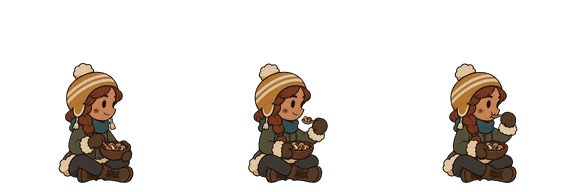
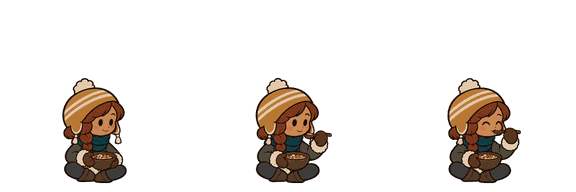
Bring art batch 3 into the game
The two-cell plank door, ladders tiled from top, middle and bottom pieces,
the Shade's idle and dissolve strips, the repainted coal, food, survivors
and hearth glyphs plus the control icons, and every pose at the turnaround's
scale (so the importer no longer shrinks any). Unused batch 3 art is
accounted for in docs/art-usage.md.

Claude-Session: https://claude.ai/code/session_01CnAPLYKpXwDQhxsTgvyjQp

Changed region(s): [[0.4062, 0.3125, 0.5938, 0.9688], [0.0938, 0.3125, 0.25, 0.9688], [0.75, 0.3125, 0.9062, 0.9688]]

diff --git a/apps/client/src/sprites.ts b/apps/client/src/sprites.ts
@@ -74,12 +74,31 @@ function hearthSprite(baseName: string) {
 if (has('hearth')) registerModel('hearth', hearthSprite('hearth'));
 if (has('hearth-grate')) registerModel('hearth-grate', hearthSprite('hearth-grate'));
 
+// A ladder is tiled from pieces: the renderer calls `userData.piece(kind)`
+// with 'top', 'middle' or 'bottom' once it knows the neighbours. Alone, a
+// one-cell ladder uses the whole single picture.
 if (has('ladder')) registerModel('ladder', () => {
   const g = new THREE.Group();
   const m = card('ladder', 1.07); // the rails stop a few pixels short of the image edges
   m.position.y = -0.035;
   m.renderOrder = 3;
   g.add(m);
+  const pieces: Record<string, THREE.Texture> = { single: texture('ladder') };
+  for (const kind of ['top', 'middle', 'bottom']) if (has(`ladder-${kind}`)) pieces[kind] = texture(`ladder-${kind}`);
+  g.userData.piece = (kind: string) => { (m.material as THREE.MeshBasicMaterial).map = pieces[kind] ?? pieces.single; };
+  return g;
+});
+
+// A door is two cells tall; the renderer shows 'closed' or 'open' as survivors pass.
+if (has('door', 'door-open')) registerModel('door', () => {
+  const g = new THREE.Group();
+  for (const [state, name] of [['closed', 'door'], ['open', 'door-open']]) {
+    const m = card(name, 384 * PX);
+    m.name = state;
+    m.position.y = -0.02;
+    m.renderOrder = 3;
+    g.add(m);
+  }
   return g;
 });
 
@@ -336,7 +355,7 @@ for (const [name, frames] of Object.entries(EFFECTS) as [keyof typeof EFFECTS, n
  * Shades: painted smoke figures. `userData.play(anim, frame)` picks drift,
  * lunge or recoil; the renderer fades the whole card in and out.
  */
-export const SHADE_ANIMS = { drift: 4, lunge: 3, recoil: 3 } as const;
+export const SHADE_ANIMS = { drift: 4, lunge: 3, recoil: 3, idle: 4, dissolve: 5 } as const;
 export type ShadeAnim = keyof typeof SHADE_ANIMS;
 if (has('shade-drift')) registerModel('shade', () => {
   const g = new THREE.Group();
@@ -347,7 +366,9 @@ if (has('shade-drift')) registerModel('shade', () => {
   book.name = 'body';
   g.add(book);
   g.userData.play = (anim: ShadeAnim, frame: number) => {
-    book.userData.strip(`shade-${anim}`, SHADE_ANIMS[anim]);
+    // Batch 3 added idle and dissolve; fall back to drift and recoil without them.
+    const name = has(`shade-${anim}`) ? anim : anim === 'idle' ? 'drift' : anim === 'dissolve' ? 'recoil' : anim;
+    book.userData.strip(`shade-${name}`, SHADE_ANIMS[name]);
     book.userData.frame(frame);
   };
   return g;

diff --git a/apps/client/src/world-view.ts b/apps/client/src/world-view.ts
@@ -702,6 +702,12 @@ export class WorldView {
       model.position.set(p.x, p.y - 0.5, 0);
       model.userData.cell = i;
       this.buildings.add(model);
+      if (b === Building.Ladder && model.userData.piece) {
+        // Tile the ladder: which piece this cell is depends on the ladder cells above and below.
+        const above = i >= this.width && buildings[i - this.width] === Building.Ladder;
+        const below = i + this.width < buildings.length && buildings[i + this.width] === Building.Ladder;
+        model.userData.piece(above && below ? 'middle' : below ? 'top' : above ? 'bottom' : 'single');
+      }
       if (b === Building.Hearth) {
         model.scale.setScalar(1.3);
         const light = new THREE.PointLight('#ffa255', 15, 18, 1);
@@ -1246,8 +1252,9 @@ export class WorldView {
         model.position.set(v.pos.x, v.pos.y + Math.sin(t * 1.7 + i) * 0.08, 0.15);
         model.rotation.set(0, v.facing > 0 ? 0 : Math.PI, 0);
         model.scale.setScalar(0.85 + v.fade * 0.15);
-        if (v.gone) play('recoil', Math.min((1 - v.fade) * 3, 2));
+        if (v.gone) play('dissolve', Math.min((1 - v.fade) * 5, 4));
         else if (v.attacking) play('lunge', t * 6 + i);
+        else if (dist < 0.02) play('idle', t * 3 + i);
         else play('drift', t * 4 + i);
         ((model.getObjectByName('body') as THREE.Mesh).material as THREE.MeshBasicMaterial).opacity = v.fade;
         return true;

diff --git a/scripts/import-codex-art.py b/scripts/import-codex-art.py
@@ -51,20 +51,21 @@ COPY = {
     "smelter": "buildings/smelter-off.png",
     "smelter-on": "buildings/smelter-on.png",
     "crystal-lamp": "buildings/crystal-lamp-on.png",
+    "door": "buildings/door-closed.png",
+    "door-open": "buildings/door-open.png",
+    "ladder-top": "buildings/ladder-top.png",
+    "ladder-middle": "buildings/ladder-middle.png",
+    "ladder-bottom": "buildings/ladder-bottom.png",
 }
 # Props cut to their painted area, for markers and icons in the world.
 CROP = {"pickaxe": "props/pickaxe.png"}
 # Strips of FRAME x FRAME cells, scaled to SHOWN.
 ANIMS = ["idle", "walk", "dig", "build", "carry", "climb", "celebrate", "cold", "sleep"]
 POSES = ["eat", "collapse", "dead", "sleep-back"]
-# Batch 1 painted some whole-body poses bigger than the rigged animations.
-# Shrink them about the feet so heads match the walk cycle. Drop an entry once
-# Codex repaints that pose at the right scale.
-POSE_SCALE = {
-    ("esk", "eat"): 0.7, ("esk", "collapse"): 0.8, ("esk", "dead"): 0.8,
-    ("mara", "eat"): 0.8, ("mara", "collapse"): 0.8, ("mara", "dead"): 0.8,
-    ("tobin", "eat"): 0.75, ("ostra", "eat"): 0.75, ("pim", "eat"): 0.75, ("ruta", "eat"): 0.75,
-}
+# Batch 1 painted some whole-body poses bigger than the rigged animations and
+# the importer shrank them. Batch 3 repainted every one at the turnaround's
+# scale, so nothing is rescaled now; the hook stays for any future slip.
+POSE_SCALE: dict[tuple[str, str], float] = {}
 FEET = 304  # feet row in a survivor frame
 
 
@@ -82,14 +83,17 @@ def rescale(img, k):
 FX = {name: f"fx/{name}.png" for name in
       ["debris-rock", "debris-dirt", "debris-coal", "smoke-puff", "breath-mist", "falling-water", "splash"]}
 # Shade strips, 320 px frames scaled like the survivors.
-SHADE = ["drift", "lunge", "recoil"]
-# Interface glyphs used now: game name: Codex icon. The coal, food, survivors
-# and hearth glyphs blur at 20 px and are repainted in batch 3, so the drawn
-# icons stay for those until then (see docs/art-usage.md).
+SHADE = ["drift", "lunge", "recoil", "idle", "dissolve"]
+# Interface glyphs used now: game name: Codex icon. Batch 3 repainted the coal,
+# food, survivors and hearth glyphs so they read at 20 px, and added the
+# control icons.
 ICONS = {"dig": "dig", "ladder": "ladder", "mushroom": "mushroom-bed", "cancel": "cancel", "sun": "day", "moon": "night",
          "warmth": "warmth", "energy": "energy", "mood": "mood", "sleep": "sleep", "lamp": "lamp", "bed": "bed",
          "skull": "death", "research": "research", "coke": "coke", "crystal": "crystal", "ore": "iron", "iron": "iron-bar",
-         "grate": "tech-burner", "crystal-lamp": "tech-crystal-lamp"}
+         "grate": "tech-burner", "crystal-lamp": "tech-crystal-lamp",
+         "coal": "coal", "food": "food", "people": "survivors", "hearth": "hearth", "pause": "pause", "speed": "speed",
+         "priority": "priority", "alert": "alert", "view": "inspect", "haul": "haul", "stone": "stone", "deconstruct": "deconstruct",
+         "area": "area", "cancel-area": "cancel-area"}
 
 
 def save(img, path):

diff --git a/docs/art-usage.md b/docs/art-usage.md
@@ -16,20 +16,19 @@ Ids are the asset ids in `art-codex/assets.json`; `*` matches any part of an id.
 | `building-diffuser-on`, `building-diffuser-off`, `icon-diffuser`, `icon-breath` | Retired | Air is shelved: the oxygen diffuser and the breath need are gone from the game. | Nothing, unless air comes back |
 | `building-lamp-off` | Unused | Under the current rules a lamp never goes out. | A lamp that needs fuel, if one is added |
 | `water-surface` | Unused | The pool surface is drawn by the animated water mesh, which shades it by firelight cell by cell. The painted strip would need the same per-cell light. | The water rework |
-| `icon-coal`, `icon-food`, `icon-survivors`, `icon-hearth` | Waiting on a repaint | Their inner lines turn to mush at 20 px, so the drawn line icons stay. Codex repaints them in batch 3. | The interface, once repainted |
 | `icon-hunger` | Unused | The survivor card shows food, which uses the food icon. | Nothing yet |
 | `story-1`, `story-2`, `story-3`, `story-4`, `story-5`, `story-*-back`, `story-*-mid`, `story-*-front` | Planned | The animated story intro on the menu isn't built yet. `story-6` is the title screen backdrop. | The story intro |
 | `*-pose-research` | Planned | Survivors at the research bench use the `build` strip for now; the research pose is a single painted frame that needs its own idle loop. | Survivors studying at the bench |
-| `*-pose-climb-up`, `*-pose-climb-down`, `*-pose-ladder-on`, `*-pose-ladder-off`, `building-ladder-top`, `building-ladder-middle`, `building-ladder-bottom`, `building-ladder-peg-*` | Batch 3, not imported yet | The batch 3 ladder system: tiled ladder pieces and climb poses. Needs the ladder renderer to pick pieces per cell. | The ladder rework |
+| `*-pose-climb-up`, `*-pose-climb-down`, `*-pose-ladder-on`, `*-pose-ladder-off` | Planned | Survivors climb with the rigged `climb` strip. These painted poses (getting on and off, up and down) need the climb animation split by direction and transitions at each end. | The climb rework |
+| `building-ladder-peg-*` | Planned | Wall anchors for ladders set against dirt or rock. The ladder is tiled from its top, middle and bottom pieces now; pegs need the renderer to look at the wall beside each piece. | The ladder renderer |
 | `item-coke-pile`, `item-iron-bar-stack` | Planned | Coke and iron are made straight into stock at the oven and smelter, so they never lie on the floor. | Stockpiles that show coke and iron |
 | `item-coal-pile`, `item-stone-pile`, `item-stone-chunk`, `item-scrap-pile` | Planned | Dug piles use `item-coal-chunk`, `item-iron-ore-pile` and `item-crystal-pile`; stone piles still use the code-built heap. Scrap isn't in the game. | Bigger heaps, stone piles, salvage |
 | `building-stockpile-stone-half`, `building-stockpile-stone-full` | Planned | Stockpiles show the colony's coal only. | Stockpiles that show stone too |
 | `building-lens-bench-idle`, `building-lens-bench-working`, `icon-lens` | Planned | The crystal lamp takes raw crystal; there is no lens-grinding step yet. | A lens bench refining step |
 | `building-crystal-lamp-off` | Unused | A crystal lamp never goes out. | Nothing yet |
 | `building-heater-off`, `building-heater-on`, `icon-tech-heater` | Planned | The first research branch is coke, the grate and the crystal lamp. A heater is the next fire upgrade. | A heater tech |
-| `building-crate-*`, `building-kitchen-*`, `building-medbay-empty`, `building-door-*`, `building-water-pump-*` | Batch 3, not imported yet | Buildings for mechanics the game doesn't have yet (storage crates, cooking, a medic, doors, pumping water). | Those mechanics |
-| `creature-heat-leech-*`, `creature-burrower-*`, `creature-shade-idle`, `creature-shade-dissolve`, `refugee` | Batch 3, not imported yet | New creatures and Shade states, and the refugee arrival. | Creatures beyond the Shade, Shade polish, refugee arrivals |
+| `building-crate-*`, `building-kitchen-*`, `building-medbay-empty`, `building-water-pump-*` | Planned | Buildings for mechanics the game doesn't have yet (storage crates, cooking, a medic, pumping water). The door is in. | Those mechanics |
+| `creature-heat-leech-*`, `creature-burrower-*`, `refugee` | Planned | Heat-leeches and Burrowers aren't in the game yet; refugees appear in the firelight rather than walking in. The Shade's idle and dissolve strips are in. | Creatures beyond the Shade, refugee arrivals |
 | `prop-crowbar` | Planned | Nothing pries things open yet. | Salvage |
 | `tex-ice`, `tex-gravel`, `tex-deep-rock`, `tex-backwall-1`, `tex-backwall-2`, `tex-backwall-3` | Planned | The map has one rock and one back wall. These are for the deeper layers. | Layers 2 to 5 |
-| `icon-pause`, `icon-speed`, `icon-priority`, `icon-alert`, `icon-inspect`, `icon-haul`, `icon-stone`, `icon-deconstruct`, `icon-area`, `icon-cancel-area` | Batch 3, not imported yet | The drawn line icons for these are in use; the painted ones need a pass to check they read at 14 to 22 px. | The interface |
-| `badge-*`, `trait-*` | Batch 3, not imported yet | Role badges and trait icons for the survivor cards. | The roster and the personalities work |
+| `badge-*`, `trait-*` | Planned | Role badges and trait icons for the survivor cards. The roster shows roles as text and traits came in with the personalities work, which draws them without icons yet. | The roster |
